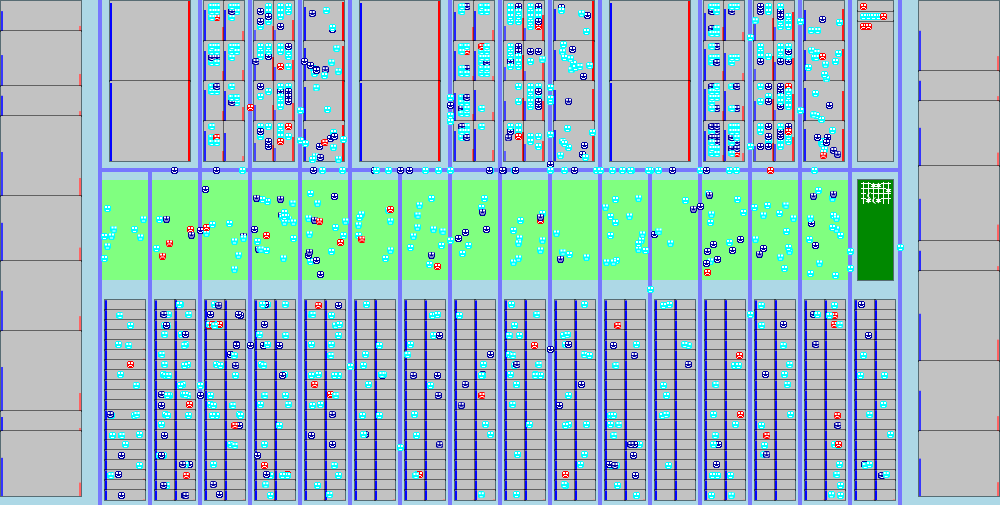
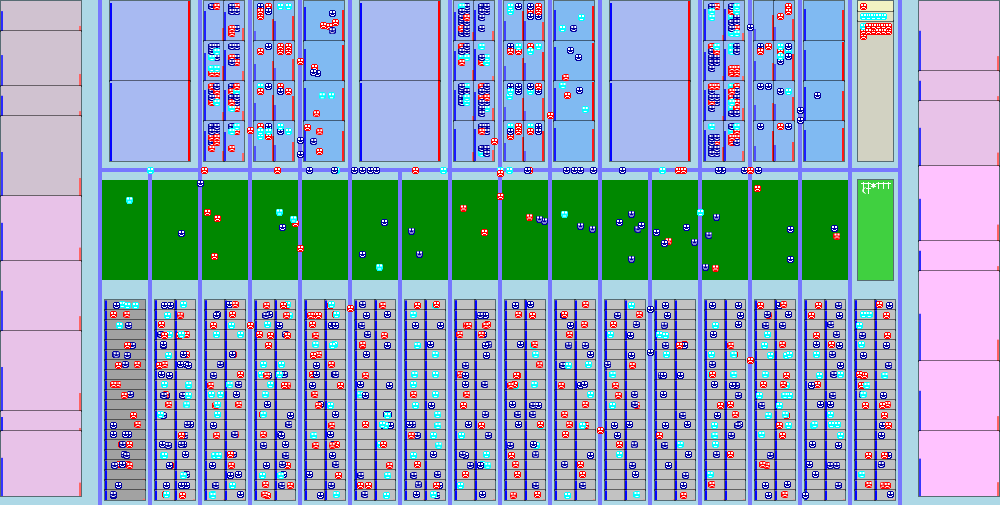
Partway through description

diff --git a/model/infect/description.html b/model/infect/description.html
@@ -8,6 +8,7 @@
 	<meta name="description" content="Covid models root">
 
 	<link rel="stylesheet" href="../css/styles.css">
+	<link rel="stylesheet" href="../css/generated.css">
 
 </head>
 
@@ -17,17 +18,83 @@
 		<h2>Description</h2>
 
 		<ul>
+			<li>Display</li>
+				<ul>
+					<li>People</li>
+					<p>
+						In this model, there are two separate issues for people with covid.  How infectious they are and how sick they are.  
+					</p>
+					<p>
+						Most people are not infectious at all, some are somewhat infectious, some are very infectious, and some are exceedingly infectious.  Within these categories infectiousness waxes and wanes over time.  They start with an incubation period where they are not infectious, ramp up to a period of peak infectiousness and then decline to no longer being infectious.  Note: people who are no longer infectious still show symptoms (which may be severe).
+					</p>
+
+					<p>
+						Everyone shows symptoms.  This coincides with the onset of peak infectiousness.  People may be just symptomatic, sick enough to have to stay home, need to go to the hospital, require intensive care, or dead.  A random selection of people at any level will move on to the next level.  Anyone who does not die recovers.
+					</p>
+
+					<p>
+						People are represented on the display by the symbols illustrated below.  The meaning of the symbols changes depending on whether you are doing exposition or playing the game.
+					</p>
+
+					<ul>
+						<li>Exposition</li>
+						<ul>
+							<li><img src="../images/covid-uninfected.png" alt="Uninfected"><div class="spaced">Never infected.</div></li>
+							<li><img src="../images/covid-infected.png" alt="Infected"><div class="spaced">Infected to unifectious.</div></li>
+							<li><img src="../images/covid-recovered.png" alt="Recovered"><div class="spaced">Unifectious to recovered.</div></li>
+						</ul>
+						<li>Game</li>
+						<ul>
+							<li><img src="../images/covid-uninfected.png" alt="Uninfected"><div class="spaced">Presymptomatic</div></li>
+							<li><img src="../images/covid-infected.png" alt="Infected"><div class="spaced">Symptomatic</div></li>
+							<li><img src="../images/covid-recovered.png" alt="Recovered"><div class="spaced">Recovered</div></li>
+						</ul>
+					</ul>
+					<div>
+						<img src="../images/cross.png" alt="Cross">
+						<img src="../images/crescent.png" alt="Crescent">
+						<img src="../images/star.png" alt="Star">
+					
+						<div class="spaced">These are dead people.  The symbols are chosen at random.</div>
+					</div>
+
+					<li>Rooms</li>
+					<ul>
+						<li>Schools<div class="swatch school-colour"></div></li>
+						<li>Offices<div class="swatch office-colour"></div></li>
+						<li>Meat packing<div class="swatch meat-colour"></div></li>
+
+						<li>Houses<div class="swatch house-colour"></div></li>
+						<li>Bunkhouses<div class="swatch bunkhouse-colour"></div></li>
+						
+						<li>Houses of worship<div class="swatch church-colour"></div></li>
+						<li>Restaurants<div class="swatch restaurant-colour"></div></li>
+						<li>Bars<div class="swatch bar-colour"></div></li>
+						<li>Clubs<div class="swatch club-colour"></div></li>
+						
+						<li>Parks<div class="swatch outside-colour"></div></li>
+						<li>Cemetary<div class="swatch cemetary-colour"></div></li>
+						
+						<li>Intensive care<div class="swatch icu-colour"></div></li>
+						<li>Hospital ward<div class="swatch ward-colour"></div></li>
+						<li>Hospital hallway<div class="swatch hallway-colour"></div></li>
+						
+					</ul>
+					<li>Roads<div class="swatch road-colour"></div></li>
+					<div>
+						Passageways for people to move from room to room.  No one catches covid on the road.
+					</div>
+				</ul>
+				<div>
+					<img src="../images/display.png" alt="The animated image">
+				</div>		
+
 			<li>Controls</li>
 				The controls
-			<li>Display</li>
-				The display
 			<li>Statistics</li>
 			<li>Charts</li>
 		</ul>
 
-		<div>
-			<img src="../images/display.png" alt="The animated image">
-		</div>		
 	</div>
 </body>
 </html>

diff --git a/model/css/styles.css b/model/css/styles.css
@@ -148,22 +148,17 @@ h4
 	background-color: #2C7BB6;
 }
 
-#no-masks
+.swatch
 {
-	background-color: #2C7BB6;
+	display: inline-block;
+	height: 0.8em;
+	width: 1em;
+	margin-top: 0.2em;
+	margin-left: 0.3em;
 }
 
-#encourage-masks
+.spaced
 {
-	background-color: #655A83;
-}
-
-#require-masks
-{
-	background-color: #9E3A4F;
-}
-
-#enforce-masks
-{
-	background-color: #D7191C;
+	display: inline-block;
+	margin-left: 0.3em;
 }

diff --git a/model/infect/infectConfig.js b/model/infect/infectConfig.js
@@ -38,7 +38,7 @@ function makeConfig()
 
 // workStyle is indexed by C.WORKTYPE = {SCHOOLS:0, OFFICES: 1, MEAT: 2};
 
-		, workStyle: ["#FFC2FF", "#E8C2E8", "#D0C2D0"]
+		, workStyle: ["#FFC2FF", "#D8C2D8", "#B0C2B0"]
 
 		 
 		, fillFactor: 1.25

diff --git a/model/infect/infect.html b/model/infect/infect.html
@@ -9,6 +9,7 @@
   <meta name="description" content="infect">
 
   <link rel="stylesheet" href="../css/styles.css">
+  <link rel="stylesheet" href="../css/generated.css">
 
 </head>
 
